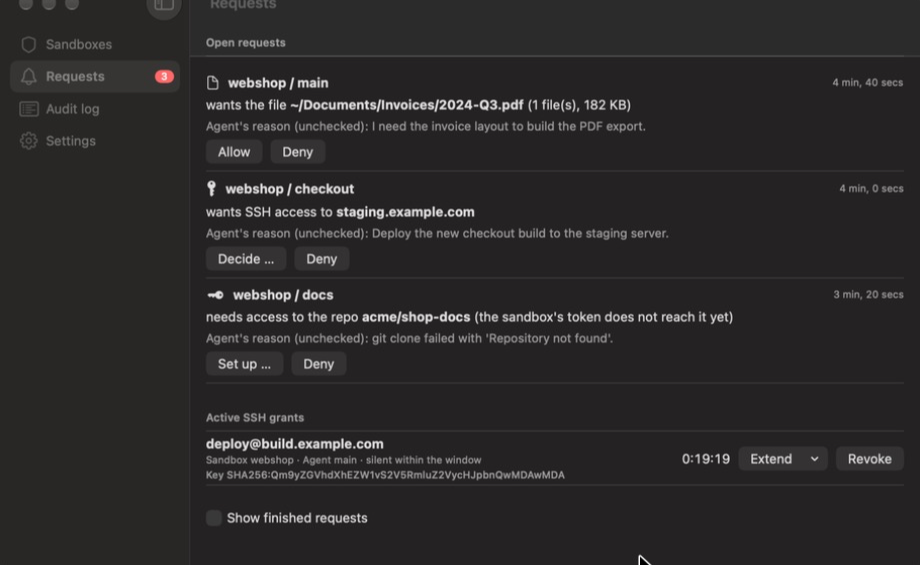
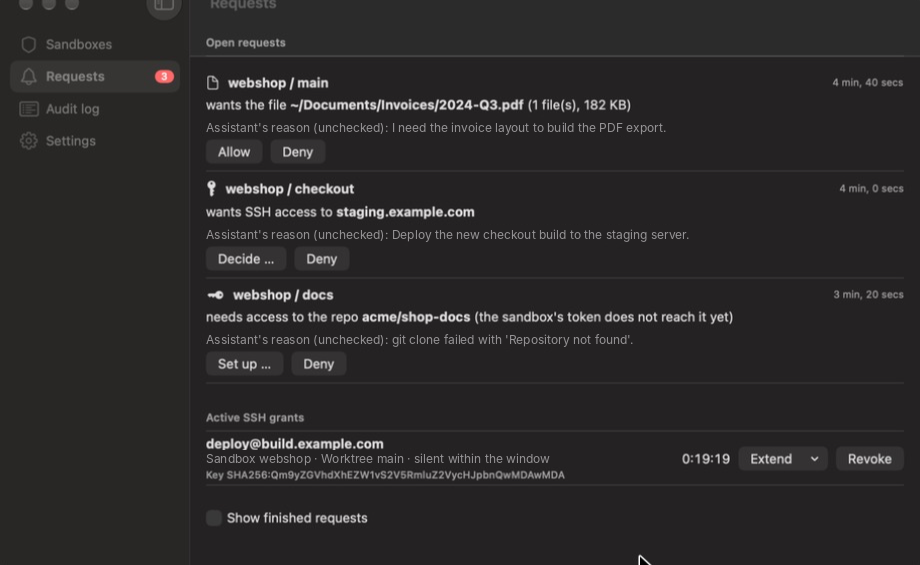
Refresh docs and request screenshot for the worktree terminology (#36)
Fix stale UI labels, broken CLI examples for main, numbering, and update the requests screenshot to assistant/worktree wording. No code changes.

diff --git a/docs/testing/app.md b/docs/testing/app.md
@@ -21,7 +21,7 @@ open app/build/Bergfried.app
 - **Overview:** sandboxes are one **alphabetical card list** (no Running/Stopped groups). Each card has the state/actions, metadata, a **Claude** card (installed, signed in; status only), an **OpenCode** card (installed, signed in, service running, Start/Stop service, Connect desktop) and a **worktree table** with Worktree, Claude state and actions. There are no runtime chips and no runtime column. The OpenCode card shows "service running" even without a Claude worktree. A stopped sandbox shows "not checked" until it starts. The daemon polls running VMs every 5 s (unstable) or 20 s (all green).
 - **Base VM banner:** when no base exists, the banner offers **Build now** and can be dismissed with **×**; building shows the live output.
 - **Login:** the sign-in button opens iTerm (if installed, otherwise Terminal) with `claude auth login` or `opencode auth login`. After a Claude login the daemon restarts the running Claude worktrees (`--continue`); a new OpenCode login is picked up by the service. Claude onboarding prompts are answered with the preselection.
-- **OpenCode desktop app:** in the OpenCode runtime card click **Connect desktop** (or Sandbox menu → Shell / SSH → Connect desktop app …). It works without Claude (sandbox-level service) and installs OpenCode if needed. **Start service / Stop service** control it without creating a link; the state survives a sandbox stop/start. A sheet opens immediately with "Preparing …", then a one-time link on the sandbox port (42xxx), valid for 5 minutes, with Copy and Open in browser. Do not open it in the browser first if you want the desktop app. Errors are shown in the sheet with Try again.
+- **OpenCode desktop app:** in the OpenCode card click **Connect desktop** (or Sandbox menu → Shell / SSH → Connect desktop app …). It works without Claude (sandbox-level service) and installs OpenCode if needed. **Start service / Stop service** control it without creating a link; the state survives a sandbox stop/start. A sheet opens immediately with "Preparing …", then a one-time link on the sandbox port (42xxx), valid for 5 minutes, with Copy and Open in browser. Do not open it in the browser first if you want the desktop app. Errors are shown in the sheet with Try again.
 - **Update size:** when a release is available, the sandbox banner, Settings → Updates and the install button show the zip size (e.g. 12.4 MB).
 - **Job output:** expanding the live output follows new lines while you are at the bottom; scrolling up pauses it and shows "Jump to latest".
 - **Daemon version mismatch:** if the daemon version differs from the app, an orange banner offers **Restart daemon**. This is the first thing to check if windows seem to run the wrong thing (a second, older daemon may still be driving the VM; `pgrep -af bergfriedd` on the Mac).
@@ -29,7 +29,7 @@ open app/build/Bergfried.app
 - **Worktrees:** a new sandbox creates the worktree `main` **without starting Claude**. "Worktree +" creates only the folder (no Claude, branch `worktree/<name>`). Each row shows Worktree, Claude state and actions: **Start Claude / Stop Claude**, iTerm, and a menu (copy RC link, restart Claude, remove worktree). The separate RC-link button was removed; copied links are still in the menu. Removing: keep the directory or delete it (git worktree, branch `worktree/<name>`, Docker stack) with a check for unsaved work; `main` cannot be removed – stop Claude instead.
 - **Claude vs OpenCode:** Start Claude only affects the selected worktree; Start/Stop service only affects the sandbox-wide OpenCode service. Both may use the same worktree, but not at the same time on the same files.
 - **Migration:** after updating from an older version, old OpenCode TUI windows are ended automatically (their worktrees become normal worktrees with Claude stopped); the folders and git history stay. Start Claude in a worktree only if you want it.
-- **Shell/SSH into the VM:** sandbox row → "Shell / SSH": a normal shell (`limactl shell`) in iTerm/Terminal, "Copy SSH command" (`ssh -F ~/.lima/<vm>/ssh.config lima-<vm>`, also usable for VS Code Remote-SSH), sign-in entries for the runtimes in use and **Connect desktop app** for OpenCode.
+- **Shell/SSH into the VM:** sandbox row → "Shell / SSH": a normal shell (`limactl shell`) in iTerm/Terminal, "Copy SSH command" (`ssh -F ~/.lima/<vm>/ssh.config lima-<vm>`, also usable for VS Code Remote-SSH), sign-in entries for Claude and OpenCode and **Connect desktop app** for OpenCode.
 - **Language:** the app follows the macOS language (English or German).
 
 ## Technical notes

diff --git a/docs/ARCHITECTURE.md b/docs/ARCHITECTURE.md
@@ -51,7 +51,7 @@ sequenceDiagram
   D->>D: audit log entry
 ```
 
-SSH works the same way, but the daemon never hands out a key: it speaks the ssh-agent protocol to the VM and signs **upstream with your real agent**,
+SSH works the same way, but the daemon never hands out a key: it speaks the ssh-agent protocol to the VM and signs **upstream with your real ssh-agent**,
 only while a grant is active (time window, key, target host key).
 
 ## Key design points
@@ -76,10 +76,10 @@ only while a grant is active (time window, key, target host key).
 8. **OpenCode is a sandbox-level service:** one service and one desktop link per sandbox, not one per worktree. It can run without any Claude worktree; the desktop app opens the worktrees as projects.
    It is connected through a one-time local link (`opencode pair`, no internet): the OpenCode server listens on a stable per-sandbox port on `0.0.0.0` and Lima forwards it to `127.0.0.1` on the Mac.
    Before a link is created the daemon restarts the service so it really uses that port (the config may already be right while the running process is stale).
-   OpenCode is installed on demand in older VMs with the official installer (latest version, user-local, no root/apt); leftovers of earlier attempts are removed first and the install log is in `/tmp/opencode-install.log`. **Start service / Stop service** in the app control it; connecting installs it on demand if missing. The wanted state is stored per sandbox (`sandboxes.opencode`) and restored after a sandbox start.
+   OpenCode is installed on demand in older VMs with the official installer (latest version, user-local, no root/apt); leftovers of earlier attempts are removed first and the install log is in `/tmp/opencode-install.log`. **Start service / Stop service** in the app control the service; connecting installs it on demand if missing. The wanted state is stored per sandbox (`sandboxes.opencode`) and restored after a sandbox start.
    A tmux window that still runs an old OpenCode TUI or a manual start is killed when the sandbox starts and by the monitor if its worktree has `claude=0` – this is how the migration terminates existing OpenCode TUI windows.
 9. **UI:** the sandbox overview is one alphabetical card list. Each card has the state/actions, a compact metadata line, a Claude card (installed, signed in; status only), an OpenCode card (installed, signed in, service running, Start/Stop service, Connect desktop) and a worktree table with Worktree, Claude state and actions. The separate runtime chips and the runtime column are gone; the RC link stays in the row's ellipsis menu. Settings has a secondary sidebar: General, Updates, Base VM, Notifications, Files & index, Terminal, Advanced (template editor behind Advanced). Base-build output follows new lines while the view is at the bottom.
-9. **App ↔ daemon** speak HTTP/JSON over `~/.bergfried/app.sock` (0600). gRPC is used VM ↔ daemon and CLI ↔ daemon. The app is the decision maker; the daemon runs with `--no-dialog`.
+10. **App ↔ daemon** speak HTTP/JSON over `~/.bergfried/app.sock` (0600). gRPC is used VM ↔ daemon and CLI ↔ daemon. The app is the decision maker; the daemon runs with `--no-dialog`.
 
 ## Data on your Mac
 

diff --git a/docs/ROADMAP.md b/docs/ROADMAP.md
@@ -14,7 +14,7 @@ Living to-do list. `[x]` done, `[ ]` open. Order inside a section is rough prior
 - [x] Updates from GitHub releases (build by CI, install button in the app, step-by-step progress and errors)
 - [x] Release channels stable/dev, CI on every branch, `scripts/` (PR, CI status, release), rollback; developing Bergfried inside a sandbox ([design/develop-in-sandbox.md](design/develop-in-sandbox.md), [design/release-channels.md](design/release-channels.md)); no rulesets by decision
 - [x] First end-to-end runs confirmed by the maintainer (2026-11-09): real GitHub with a fine-grained token, published release, in-app update via the dev channel, rollback, app UI
-- [x] VM image with `make`, `chromium` (headless), `gh`, `git-lfs`; agent hints for browser, apt and `gh`; unedited template updates are adopted automatically
+- [x] VM image with `make`, `chromium` (headless), `gh`, `git-lfs`; assistant hints for browser, apt and `gh`; unedited template updates are adopted automatically
 - [x] Index explanation before the first index build after an install or update (`index.Gate`); Diagnostics pane in the app
 - [x] OpenCode as a sandbox-level service: one service per sandbox, on-demand install in older VMs, desktop app connection (one-time local link, dedicated port, Connect/Start/Stop in the app)
 - [x] Sandbox overview as an alphabetical card list with Claude card (status), OpenCode card (service, Start/Stop, Connect) and a worktree table with Claude start/stop; settings with a secondary sidebar and cards

diff --git a/README.md b/README.md
@@ -70,8 +70,8 @@ If something fails, the **Diagnostics** menu item shows the daemon log, the upda
 
 ### OpenCode desktop app
 OpenCode is driven from the [OpenCode desktop app](https://opencode.ai/download), not from the phone. It is one service for the whole sandbox: Connect starts it and the desktop app opens the worktrees as projects, even if Claude was never started.
-1. Start the sandbox and sign in to OpenCode (button in the OpenCode runtime card if needed).
-2. In the **OpenCode** runtime card click **Connect** (or **Shell / SSH → Connect desktop app …**). Connecting installs OpenCode if it is missing.
+1. Start the sandbox and sign in to OpenCode (button in the OpenCode card if needed).
+2. In the **OpenCode** card click **Connect desktop** (or **Shell / SSH → Connect desktop app …**). Connecting installs OpenCode if it is missing.
 3. Copy the one-time link (valid for 5 minutes) and paste it into the desktop app under **Add server**. Open the sandbox's worktrees as projects; Claude is not required.
 
 The link uses a dedicated port per sandbox, works only on your Mac and is never exposed to the internet. A connection lasts 30 days; if a link expired, click Connect again. Claude keeps using Remote Control and is not listed in the desktop app. Use **Start service / Stop service** in the OpenCode card to control it; stopping it does not stop Claude.

diff --git a/docs/design/template-proposals.md b/docs/design/template-proposals.md
@@ -3,7 +3,7 @@
 The agent may only **propose** changes to the VM template, never apply them.
 
 - MCP tool `propose_template_change(summary, reason, patch)`: `patch` is a unified diff against the current `bergfried.yaml` (version included in the request).
-- A third request kind next to files and SSH, with sandbox and agent name; shown in the app and written to the audit log.
+- A third request kind next to files and SSH, with sandbox and worktree name; shown in the app and written to the audit log.
 - The daemon validates **before** showing: the patch applies, `limactl validate` passes and the security rules hold. Mounts, `forwardAgent`, socket/port forwards and home paths in a patch raise a clear warning; proposals that mount home are refused automatically.
 - You see the diff, reason and warnings and can **deny**, **apply to this sandbox only** (overlay used on rebuild) or **adopt into the template** (new version number).
 - Nothing is applied to a running VM; changes take effect on rebuild or for new sandboxes. A rebuild needs another confirmation because the disk may be lost.

diff --git a/docs/testing/setup.md b/docs/testing/setup.md
@@ -20,7 +20,7 @@ export BERGFRIED_TEMPLATE=vm/bergfried.yaml
 - In the VM `mount | grep shared` shows exactly two virtiofs mounts, `in` with `ro`; `ls /Users` shows nothing of your home.
 - `docker ps` works in the VM; no VM Docker socket is forwarded to the Mac.
 - Two sandboxes have different `/etc/machine-id`.
-- OpenCode: `command -v opencode` and `~/.opencode/bin/opencode --version` work; `opencode pair` (or the app Connect button) returns a link on a port in 42000–42999, not 49374.
+- OpenCode: `command -v opencode` and `~/.opencode/bin/opencode --version` work; `opencode pair` (or **Connect desktop** in the app) returns a link on a port in 42000–42999, not 49374.
 - OpenCode is one service (`pgrep -a opencode`) regardless of how many worktrees exist; each project gets its own MCP process.
 
 ## Notes

diff --git a/docs/testing/ssh.md b/docs/testing/ssh.md
@@ -5,7 +5,7 @@ make build
 ./bin/bergfriedd base build          # template with the second reverse socket and ssh_config.d
 ./bin/bergfriedd serve               # uses your SSH_AUTH_SOCK as upstream (--upstream-agent <socket>)
 ./bin/bergfriedd create shop
-./bin/bergfriedd login shop && ./bin/bergfriedd worktree add shop main && ./bin/bergfriedd worktree start shop main
+./bin/bergfriedd login shop && ./bin/bergfriedd worktree start shop main
 ```
 **Use a test key, ssh-agent and server, never your real ones** (see [DEVELOPMENT.md](../DEVELOPMENT.md)).
 

diff --git a/docs/testing/files.md b/docs/testing/files.md
@@ -5,7 +5,7 @@ make build
 export BERGFRIED_TEMPLATE=vm/bergfried.yaml
 ./bin/bergfriedd serve               # terminal 1: daemon (index, sockets, approval dialog)
 ./bin/bergfriedd create shop         # terminal 2: installs bergfried-mcp in the VM
-./bin/bergfriedd login shop && ./bin/bergfriedd worktree add shop main && ./bin/bergfriedd worktree start shop main
+./bin/bergfriedd login shop && ./bin/bergfriedd worktree start shop main
 ```
 In Claude: "List my files in Documents and fetch <file>".
 
